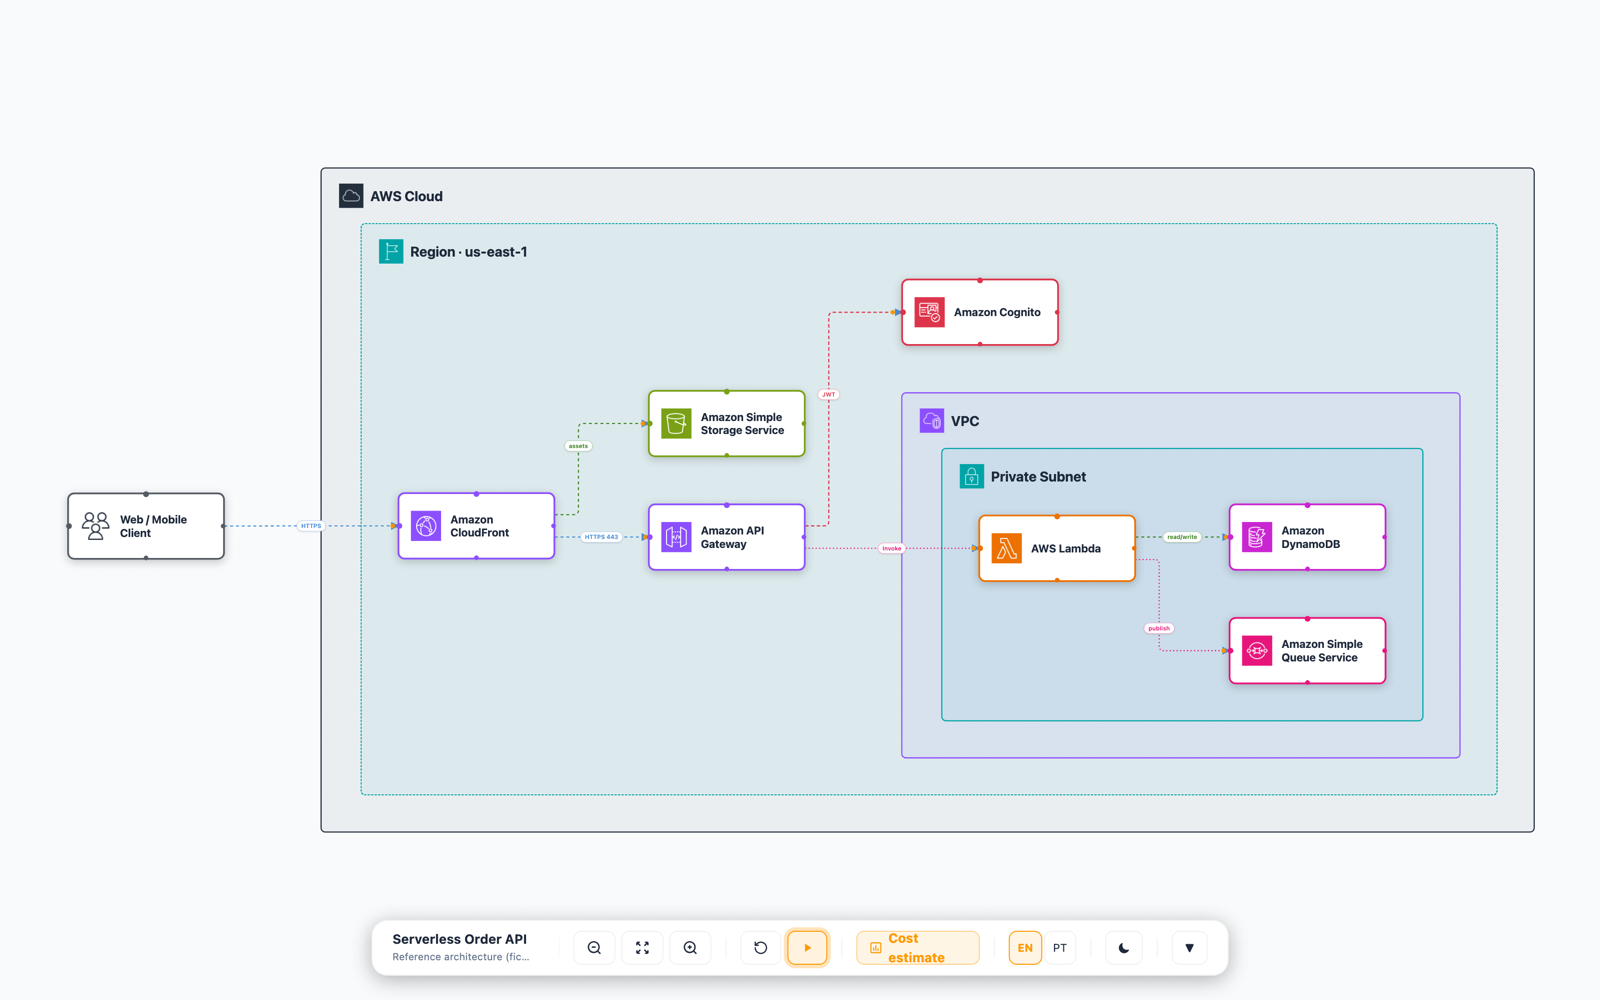
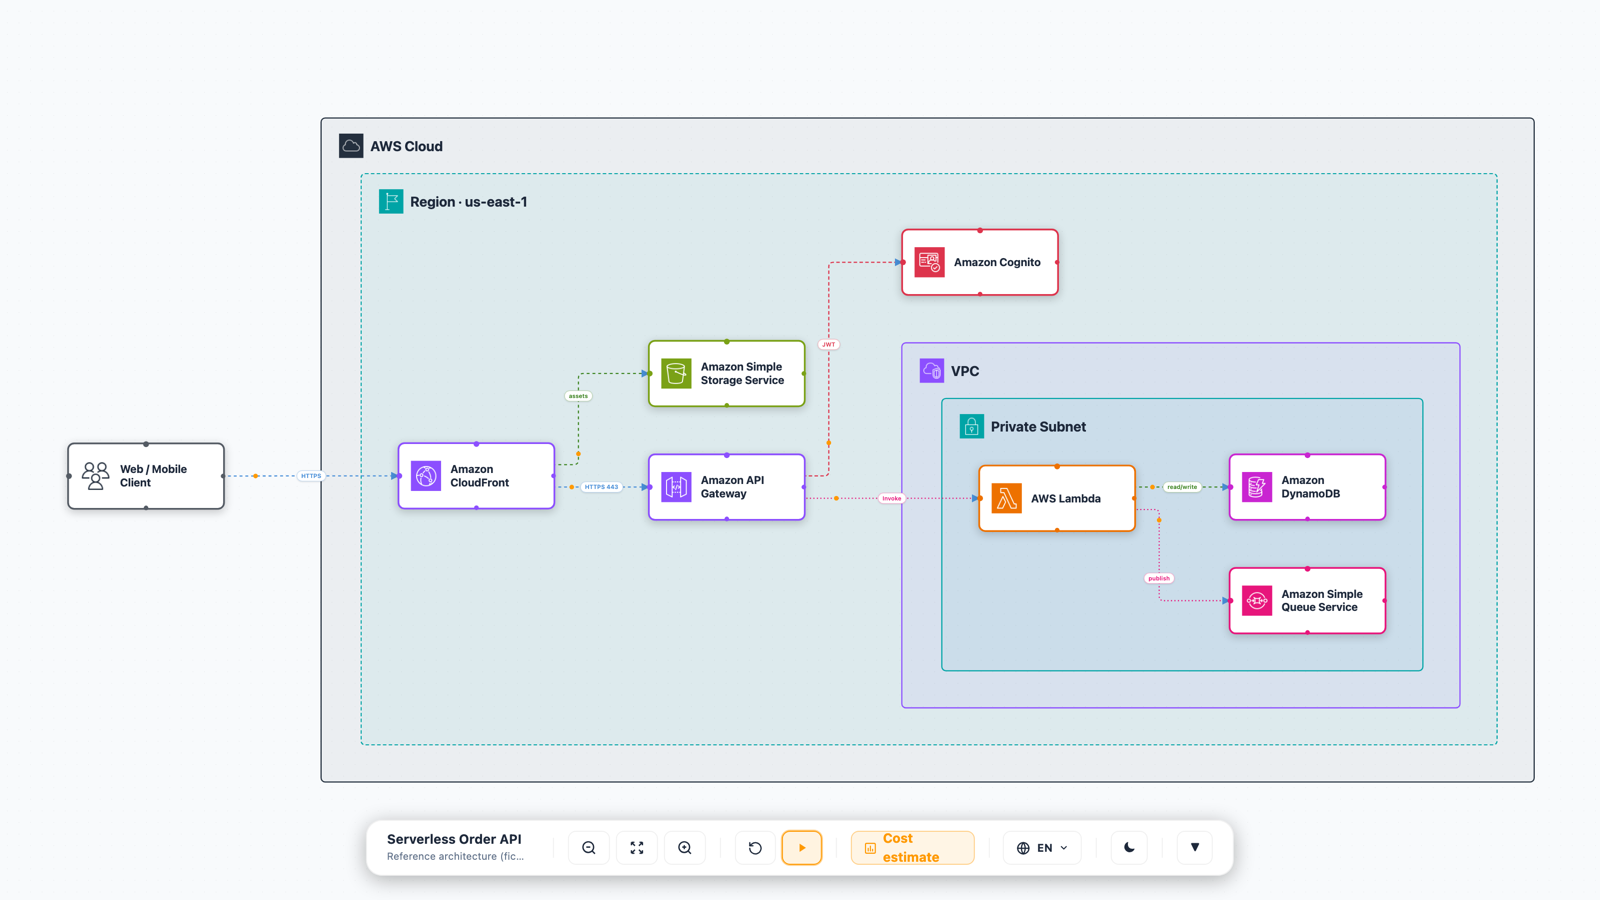
docs(readme): add interactive feature GIFs (walkthrough, language, collapse, theme)

diff --git a/README.md b/README.md
@@ -17,6 +17,13 @@ framing each stage and an overlay card explaining the WHY:
 
 ![Guided walkthrough](docs/walkthrough.gif)
 
+The same self-contained HTML is fully interactive — switch language, collapse
+containers, and flip the theme, all offline:
+
+| Language switch (EN ⇄ PT) | Collapsible containers | Light / dark theme |
+|:---:|:---:|:---:|
+| ![Language switch](docs/lang-switch.gif) | ![Collapsible containers](docs/collapse.gif) | ![Theme toggle](docs/theme.gif) |
+
 > **Disclaimer:** Provided for illustration and documentation purposes, "as is"
 > without warranty. The diagrams and any IaC or pricing it helps produce are
 > starting points — review, test, and harden them (security, cost, and
